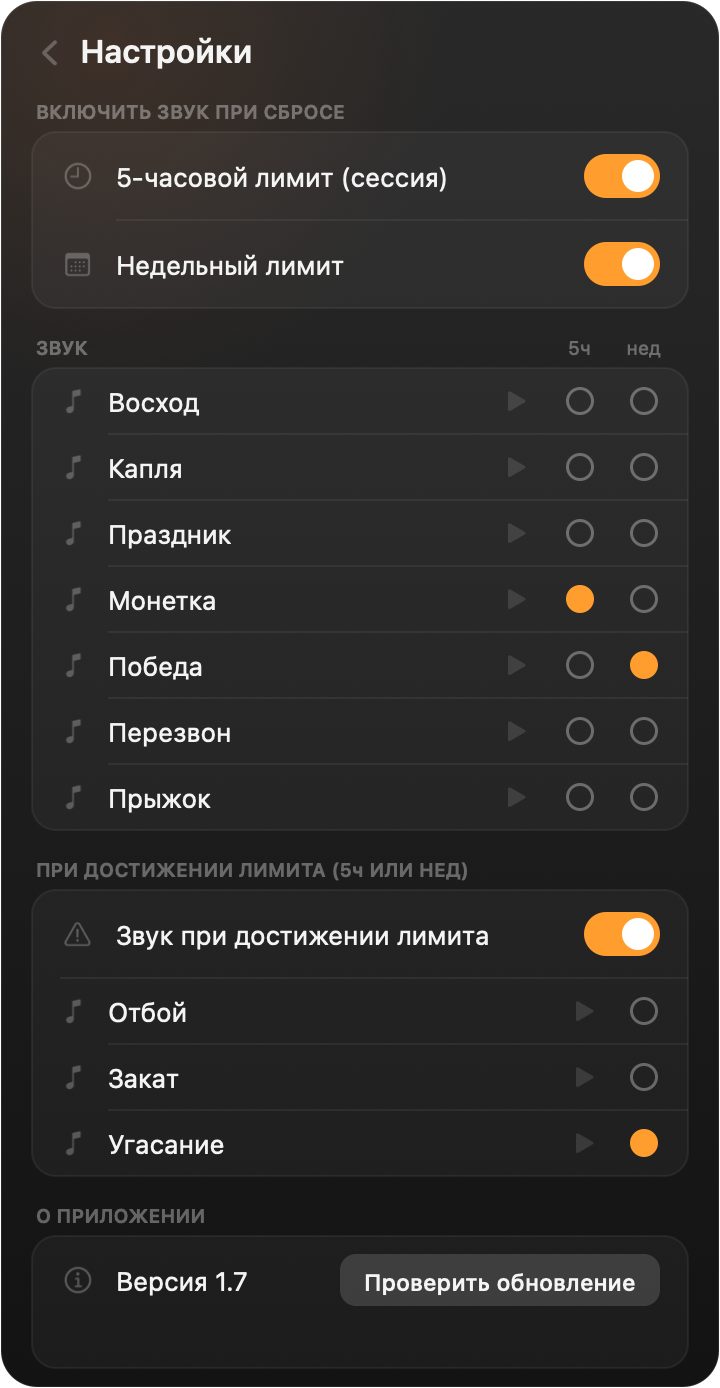
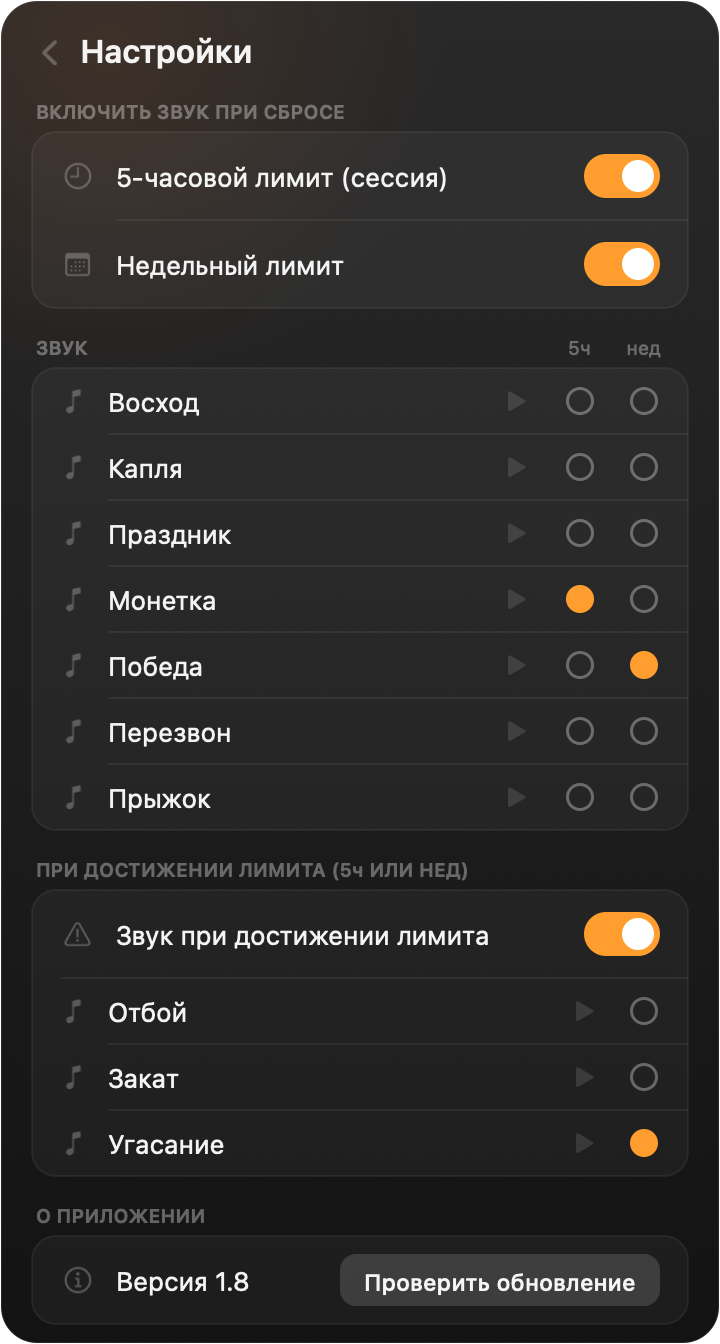
v1.8 — compact "About" card, no empty space
The about/version card now hugs its single row; the status line ("update
available" / "up to date" / error) appears below it only when present, and the
settings panel resizes to fit. Fixes the empty gap under the version.

diff --git a/Sources/LimitsMonitor.swift b/Sources/LimitsMonitor.swift
@@ -550,7 +550,7 @@ struct Hit { let id: String; let rect: CGRect }
 let PANEL_W: CGFloat = 360
 let PANEL_H: CGFloat = 286
 enum PanelMode { case main, settings }
-let APP_VERSION = "1.7"
+let APP_VERSION = "1.8"
 let APP_AUTHOR = "Alex Kovalev"
 let REPO_URL = "https://github.com/ArrivaRUS/claude-codex-limits"
 
@@ -905,7 +905,7 @@ func drawSettings(_ ctx: CGContext, size: CGSize, about: AboutState) -> [Hit] {
     // section 4 — about / check for updates
     let capD = c3top + c3H + 14
     text(attr("О ПРИЛОЖЕНИИ", 9.5, .semibold, textLo), x: pad + 2, topY: capD)
-    let c4top = capD + 16, c4H: CGFloat = 66
+    let c4top = capD + 16, c4H: CGFloat = 44
     roundFill(rectTL(cardX, c4top, cardW, c4H), 12, gray(1, 0.04)); roundStroke(rectTL(cardX, c4top, cardW, c4H), 12, gray(1, 0.06), 1)
     drawSF(ctx, "info.circle", in: rectTL(cardX + 15, c4top + (44 - 16) / 2, 16, 16), textMid)
     text(attr("Версия \(about.version)", 13, .regular, textHi), x: cardX + 42, topY: c4top + (44 - 13) / 2 - 1)
@@ -925,10 +925,12 @@ func drawSettings(_ ctx: CGContext, size: CGSize, about: AboutState) -> [Hit] {
     } else {
         pill("Проверить обновление", "checkupdate", false)
     }
+    // status line below the card (only when there is something to say)
+    let lineY = c4top + c4H + 7
     if let av = about.availVersion {
-        text(attr("Доступна версия \(av) — нажмите «Обновить»", 11.5, .regular, NSColor(srgbRed: 1.0, green: 0.62, blue: 0.18, alpha: 1)), x: cardX + 42, topY: c4top + 45)
+        text(attr("Доступна версия \(av) — нажмите «Обновить»", 11.5, .regular, NSColor(srgbRed: 1.0, green: 0.62, blue: 0.18, alpha: 1)), x: cardX + 4, topY: lineY)
     } else if !about.status.isEmpty {
-        text(attr(about.status, 11.5, .regular, textLo), x: cardX + 42, topY: c4top + 45)
+        text(attr(about.status, 11.5, .regular, textLo), x: cardX + 4, topY: lineY)
     }
 
     return hits
@@ -954,10 +956,15 @@ final class LimitsPanelView: NSView {
 
     func setMode(_ m: PanelMode) {
         mode = m
-        let targetH = (m == .settings) ? settingsTotalHeight() : PANEL_H
+        resizeToContent()
+    }
+
+    /// Resize the panel (anchored at its top edge) to fit the current mode/state.
+    func resizeToContent() {
+        let targetH = (mode == .settings) ? settingsTotalHeight(about) : PANEL_H
         if let win = window {
             let f = win.frame
-            var ny = f.maxY - targetH                              // keep the top edge anchored
+            var ny = f.maxY - targetH
             if let scr = win.screen { ny = max(scr.visibleFrame.minY + 8, ny) }
             win.setFrame(NSRect(x: f.minX, y: ny, width: PANEL_W, height: targetH), display: true)
         }
@@ -1094,12 +1101,13 @@ func validSound(_ v: String?, _ pool: [ResetSound], _ fallback: String) -> Strin
 func sound5hId() -> String { validSound(UserDefaults.standard.string(forKey: "sound5hChoice"), RESET_SOUNDS, "rise") }
 func sound7dId() -> String { validSound(UserDefaults.standard.string(forKey: "sound7dChoice"), RESET_SOUNDS, "celebrate") }
 func reachedId() -> String { validSound(UserDefaults.standard.string(forKey: "reachedChoice"), REACHED_SOUNDS, "outage") }
-func settingsTotalHeight() -> CGFloat {
+func settingsTotalHeight(_ about: AboutState) -> CGFloat {
     let cardBbottom = 178 + 33 * CGFloat(RESET_SOUNDS.count)
     let c3top = cardBbottom + 14 + 16
     let cardCbottom = c3top + 44 + 33 * CGFloat(REACHED_SOUNDS.count)
     let c4top = cardCbottom + 14 + 16
-    return c4top + 66 + 16
+    let needsLine = about.availVersion != nil || !about.status.isEmpty
+    return c4top + 44 + (needsLine ? 22 : 0) + 16
 }
 func soundURL(_ file: String) -> URL? {
     if let u = Bundle.main.url(forResource: file, withExtension: "wav") { return u }
@@ -1278,7 +1286,7 @@ final class AppDelegate: NSObject, NSApplicationDelegate {
     @objc func checkForUpdate() {
         let v = panelCtrl.view
         v.about.checking = true; v.about.status = ""; v.about.availVersion = nil; v.about.availURL = nil
-        v.needsDisplay = true
+        v.resizeToContent()
         DispatchQueue.global(qos: .userInitiated).async { [weak self] in
             let r = latestRelease()
             DispatchQueue.main.async {
@@ -1293,7 +1301,7 @@ final class AppDelegate: NSObject, NSApplicationDelegate {
                 } else {
                     v.about.status = "Не удалось проверить обновление"
                 }
-                v.needsDisplay = true
+                v.resizeToContent()
             }
         }
     }
@@ -1302,12 +1310,12 @@ final class AppDelegate: NSObject, NSApplicationDelegate {
     /// app bundle and relaunches once this instance quits.
     func performUpdate(_ urlStr: String) {
         let v = panelCtrl.view
-        v.about.status = "Загрузка…"; v.about.availVersion = nil; v.needsDisplay = true
+        v.about.status = "Загрузка…"; v.about.availVersion = nil; v.resizeToContent()
         DispatchQueue.global(qos: .userInitiated).async { [weak self] in
             let resp = http(urlStr, method: "GET", headers: ["User-Agent": "ClaudeCodexLimits"], body: nil, timeout: 120)
             guard resp.status == 200, let data = resp.data, data.count > 100_000 else {
                 DispatchQueue.main.async {
-                    self?.panelCtrl.view.about.status = "Ошибка загрузки"; self?.panelCtrl.view.needsDisplay = true
+                    self?.panelCtrl.view.about.status = "Ошибка загрузки"; self?.panelCtrl.view.resizeToContent()
                 }
                 return
             }
@@ -1411,10 +1419,11 @@ if CommandLine.arguments.contains("--panel-preview") {
 if CommandLine.arguments.contains("--settings-preview") {
     let d = UserDefaults.standard
     let s5 = d.bool(forKey: "sound5h"); d.set(true, forKey: "sound5h")   // show one toggle on
-    let s: CGFloat = 2, sh = settingsTotalHeight()
+    let about = AboutState()
+    let s: CGFloat = 2, sh = settingsTotalHeight(about)
     if let ctx = bitmapContext(Int(PANEL_W * s), Int(sh * s)) {
         ctx.scaleBy(x: s, y: s)
-        _ = drawSettings(ctx, size: CGSize(width: PANEL_W, height: sh), about: AboutState())
+        _ = drawSettings(ctx, size: CGSize(width: PANEL_W, height: sh), about: about)
         if let img = ctx.makeImage() {
             let data = NSMutableData()
             if let dest = CGImageDestinationCreateWithData(data as CFMutableData, "public.png" as CFString, 1, nil) {

diff --git a/README.md b/README.md
@@ -62,7 +62,7 @@ under `~/.claude-limits-monitor/`.
 
 ### From the .dmg
 
-1. Download `ClaudeCodexLimits-1.7.dmg` from the [Releases](../../releases) page.
+1. Download `ClaudeCodexLimits-1.8.dmg` from the [Releases](../../releases) page.
 2. Open it and drag **Claude Codex Limits** into **Applications**.
 3. Launch it. Because the build isn't notarized, the first time you may need to
    right‑click → **Open**, or allow it under **System Settings → Privacy & Security**.
@@ -90,7 +90,7 @@ Requirements: macOS 13+, the Xcode command‑line tools (`swiftc`). No packages 
 ## Build a release
 
 ```bash
-./scripts/make-dmg.sh     # → dist/ClaudeCodexLimits-1.7.dmg
+./scripts/make-dmg.sh     # → dist/ClaudeCodexLimits-1.8.dmg
 ```
 
 ## Project layout

diff --git a/README.ru.md b/README.ru.md
@@ -62,7 +62,7 @@ Anthropic `GET /api/oauth/usage`. **Это не тратит вашу квоту
 
 ### Из .dmg
 
-1. Скачайте `ClaudeCodexLimits-1.7.dmg` со страницы [Releases](../../releases).
+1. Скачайте `ClaudeCodexLimits-1.8.dmg` со страницы [Releases](../../releases).
 2. Откройте и перетащите **Claude Codex Limits** в **Applications**.
 3. Запустите. Сборка не нотаризована, поэтому в первый раз может понадобиться
    правый клик → **Открыть** или разрешение в **Системных настройках → Конфиденциальность и безопасность**.
@@ -90,7 +90,7 @@ cd claude-codex-limits
 ## Сборка релиза
 
 ```bash
-./scripts/make-dmg.sh     # → dist/ClaudeCodexLimits-1.7.dmg
+./scripts/make-dmg.sh     # → dist/ClaudeCodexLimits-1.8.dmg
 ```
 
 ## Структура проекта